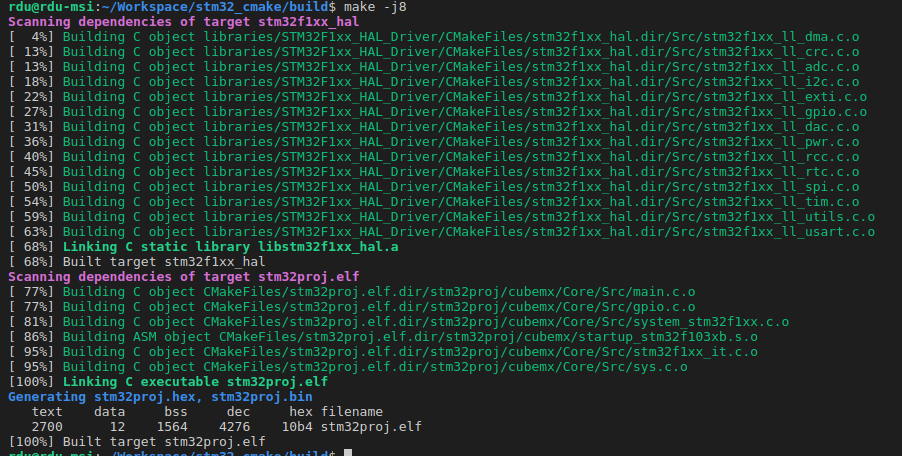
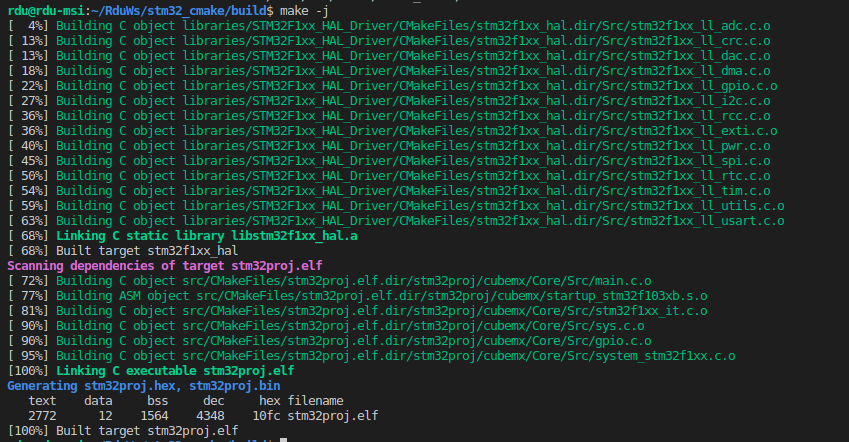
updated folder organization

diff --git a/README.md b/README.md
@@ -38,13 +38,21 @@ Now you can try to compile the sample project using the cmake template.
 ```
 $ cd <root-folder-of-this-repo>
 $ mkdir build
-$ cmake ../src
-$ make
+$ cmake ..
+$ make -j
 ```
-If the "cmake ../src" step runs successfully, you should see something similar to the below screenshot:
+If the "cmake .." step runs successfully, you should see something similar to the below screenshot:
 
 ![cmake step](docs/stm32_cmake1.png)
 
 Then you can continue to actually compile the code and you can expect a similar result:
 
 ![cmake step](docs/stm32_cmake2.png)
+
+You can find the compiled **.elf**, **.hex** and **.bin** binary files in "build/src".
+
+Reference:
+
+* https://github.com/ahessling/STM32F4Template
+* https://gitlab.kitware.com/cmake/community/wikis/doc/cmake/CrossCompiling
+* https://www.bootladder.com/2017/10/09/cmake-and-gradle-for-arm-c-c.html
